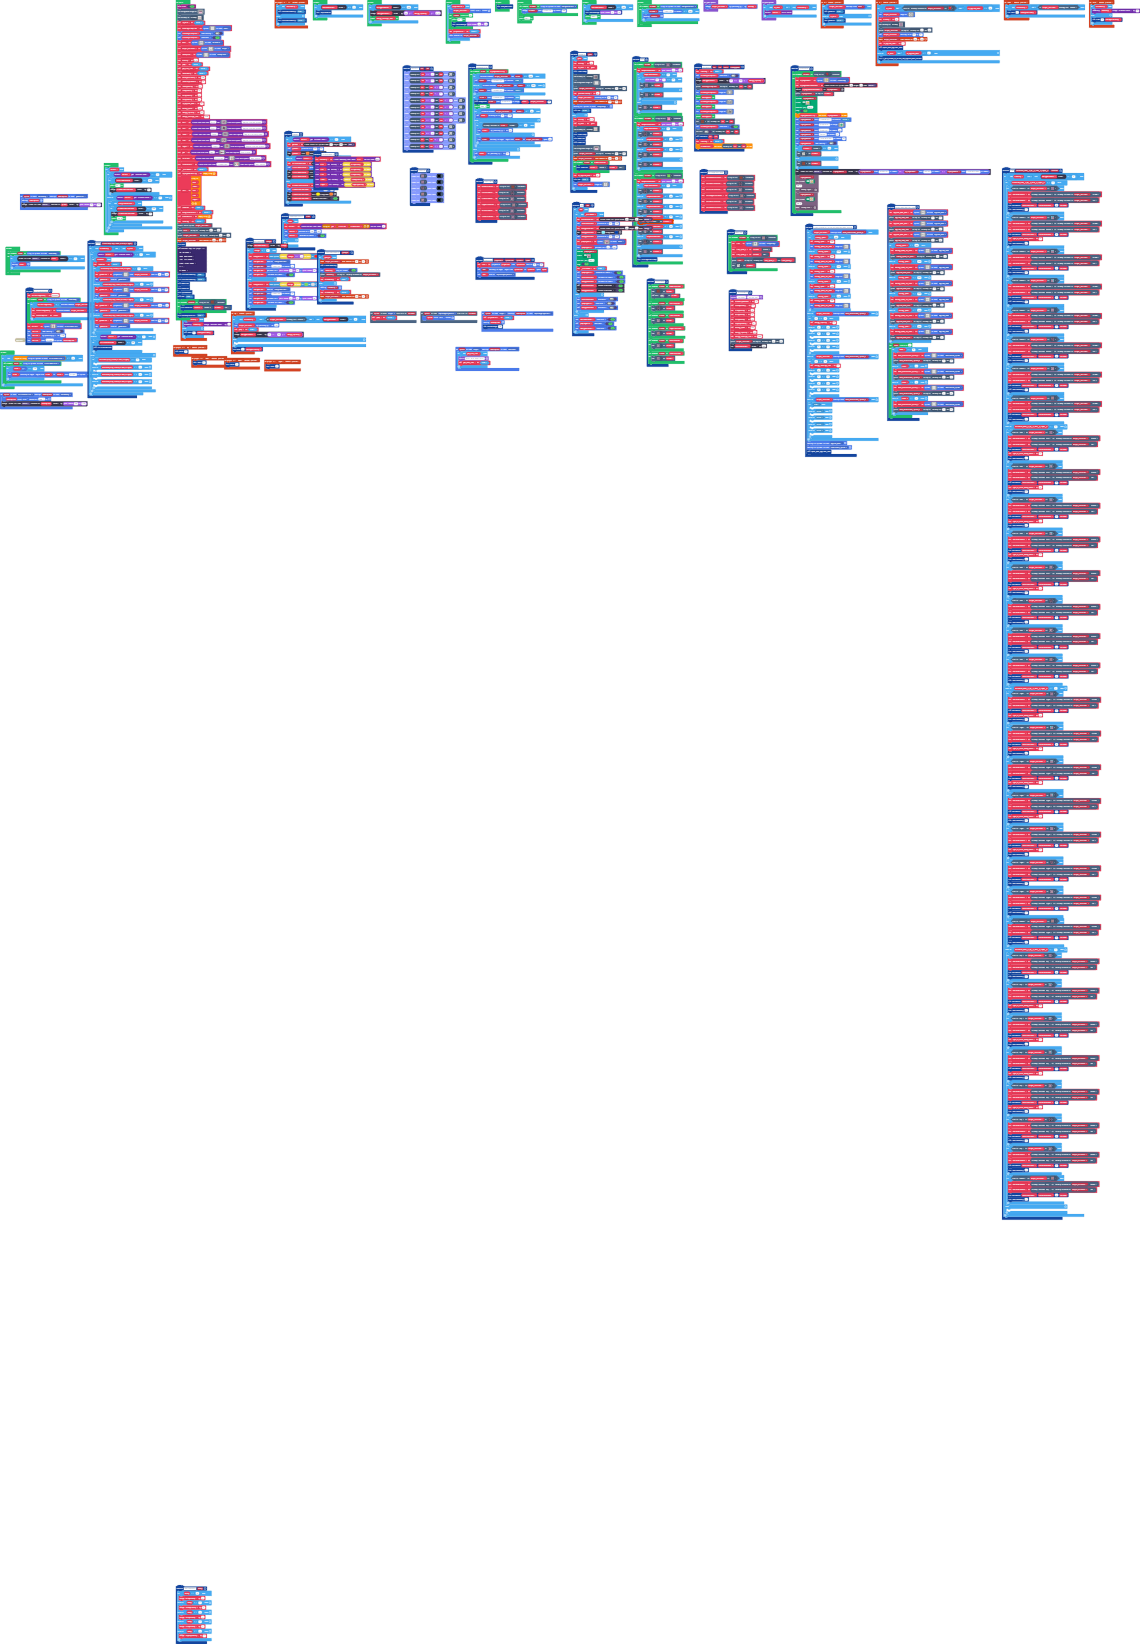
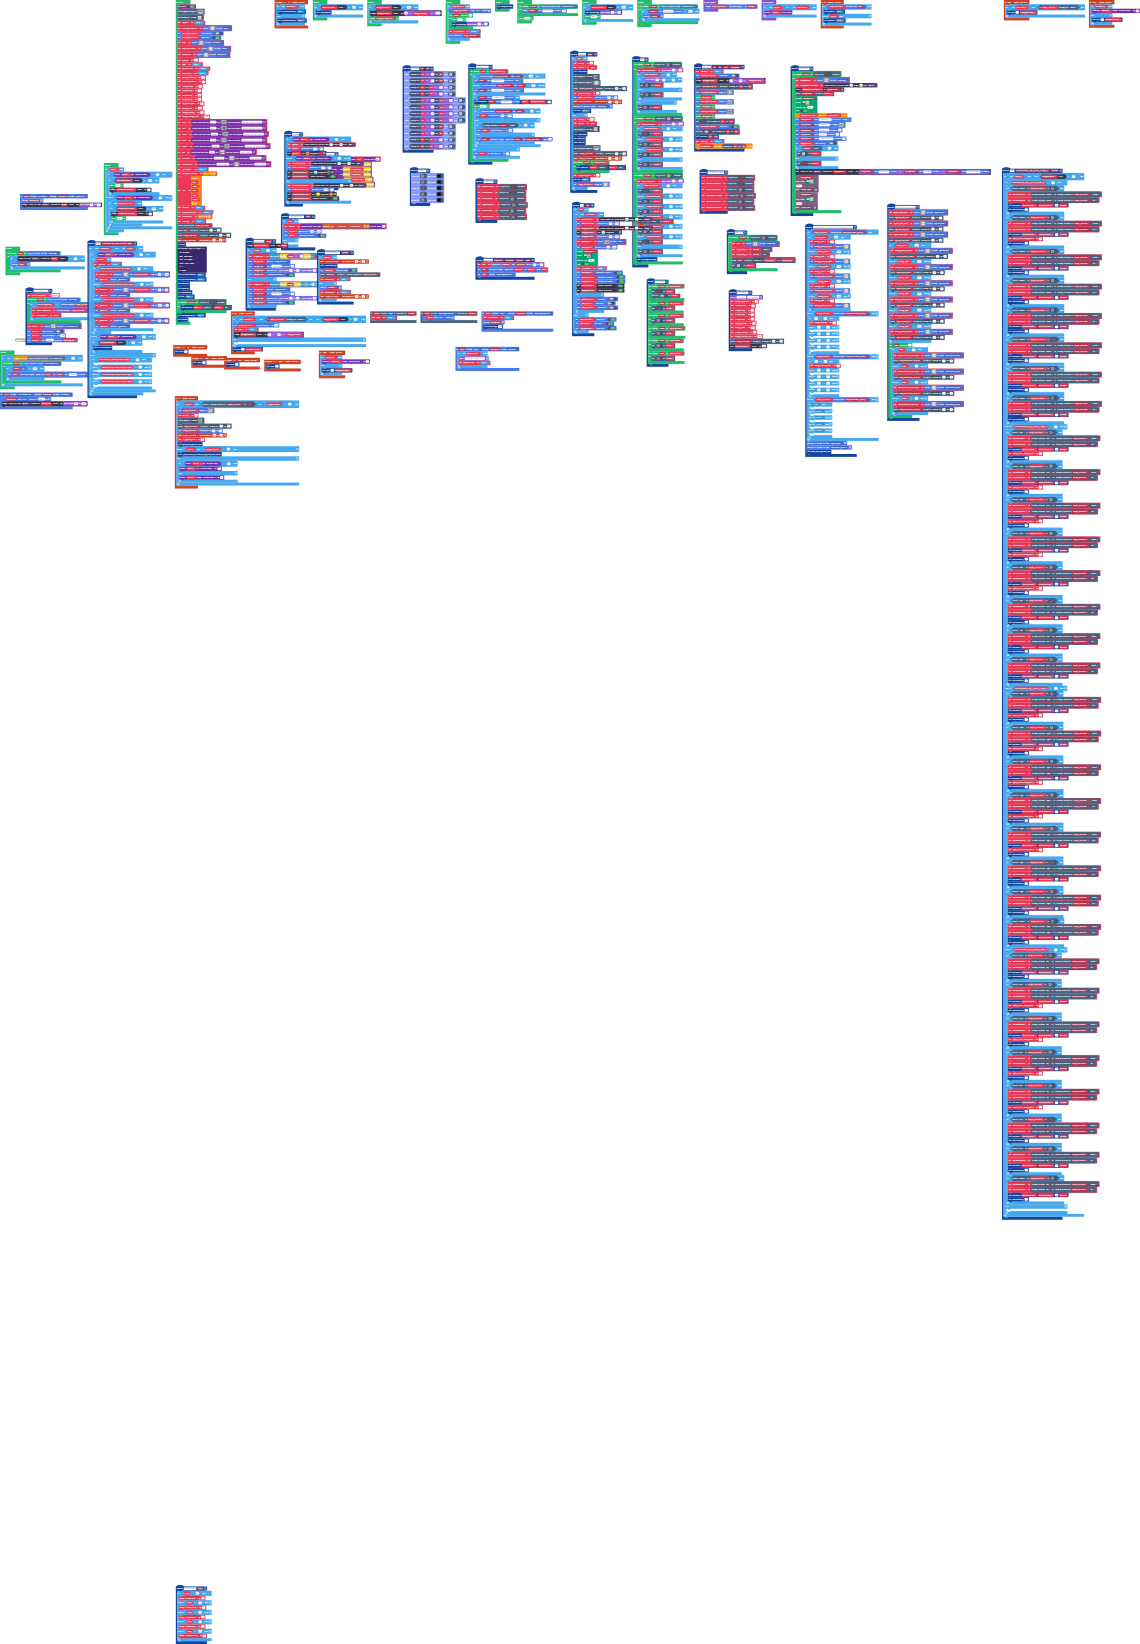
Update main.blocks, main.ts, tilemap.g.jres, tilemap.g.ts

diff --git a/tilemap.g.ts b/tilemap.g.ts
@@ -290,6 +290,82 @@ namespace myTiles {
 2222222222222222222222222222222222222222222222222222222222222222222222222222222222222222222222222222
 2222222222222222222222222222222222222222222222222222222222222222222222222222222222222222222222222222
 `, [myTiles.transparency16,myTiles.tile1,myTiles.tile2,myTiles.tile3,myTiles.tile5,myTiles.tile7,myTiles.tile8,myTiles.tile9,myTiles.tile31,myTiles.tile32,myTiles.tile12,myTiles.tile15,myTiles.tile16,myTiles.tile17,myTiles.tile33,myTiles.tile10], TileScale.Sixteen);
+            case "level10":
+            case "level10":return tiles.createTilemap(hex`1000100000000000000000000000000000000000000000000000000000000000000000000000000000000000000000000000000000000000000000000000000000000000000000000000000000000000000000000000000000000000000000000000000000000000000000000000000000000000000000000000000000000000000000000000000000000000000000000000000000000000000000000000000000000000000000000000000000000000000000000000000000000000000000000000000000000000000000000000000000000000000000000000000000000000000000000000000000000000000000000000000000000000000000000000000000000000`, img`
+. . . . . . . . . . . . . . . . 
+. . . . . . . . . . . . . . . . 
+. . . . . . . . . . . . . . . . 
+. . . . . . . . . . . . . . . . 
+. . . . . . . . . . . . . . . . 
+. . . . . . . . . . . . . . . . 
+. . . . . . . . . . . . . . . . 
+. . . . . . . . . . . . . . . . 
+. . . . . . . . . . . . . . . . 
+. . . . . . . . . . . . . . . . 
+. . . . . . . . . . . . . . . . 
+. . . . . . . . . . . . . . . . 
+. . . . . . . . . . . . . . . . 
+. . . . . . . . . . . . . . . . 
+. . . . . . . . . . . . . . . . 
+. . . . . . . . . . . . . . . . 
+`, [myTiles.transparency16], TileScale.Sixteen);
+            case "level11":
+            case "level11":return tiles.createTilemap(hex`1000100000000000000000000000000000000000000000000000000000000000000000000000000000000000000000000000000000000000000000000000000000000000000000000000000000000000000000000000000000000000000000000000000000000000000000000000000000000000000000000000000000000000000000000000000000000000000000000000000000000000000000000000000000000000000000000000000000000000000000000000000000000000000000000000000000000000000000000000000000000000000000000000000000000000000000000000000000000000000000000000000000000000000000000000000000000000`, img`
+. . . . . . . . . . . . . . . . 
+. . . . . . . . . . . . . . . . 
+. . . . . . . . . . . . . . . . 
+. . . . . . . . . . . . . . . . 
+. . . . . . . . . . . . . . . . 
+. . . . . . . . . . . . . . . . 
+. . . . . . . . . . . . . . . . 
+. . . . . . . . . . . . . . . . 
+. . . . . . . . . . . . . . . . 
+. . . . . . . . . . . . . . . . 
+. . . . . . . . . . . . . . . . 
+. . . . . . . . . . . . . . . . 
+. . . . . . . . . . . . . . . . 
+. . . . . . . . . . . . . . . . 
+. . . . . . . . . . . . . . . . 
+. . . . . . . . . . . . . . . . 
+`, [myTiles.transparency16], TileScale.Sixteen);
+            case "level12":
+            case "level12":return tiles.createTilemap(hex`1000100000000000000000000000000000000000000000000000000000000000000000000000000000000000000000000000000000000000000000000000000000000000000000000000000000000000000000000000000000000000000000000000000000000000000000000000000000000000000000000000000000000000000000000000000000000000000000000000000000000000000000000000000000000000000000000000000000000000000000000000000000000000000000000000000000000000000000000000000000000000000000000000000000000000000000000000000000000000000000000000000000000000000000000000000000000000`, img`
+. . . . . . . . . . . . . . . . 
+. . . . . . . . . . . . . . . . 
+. . . . . . . . . . . . . . . . 
+. . . . . . . . . . . . . . . . 
+. . . . . . . . . . . . . . . . 
+. . . . . . . . . . . . . . . . 
+. . . . . . . . . . . . . . . . 
+. . . . . . . . . . . . . . . . 
+. . . . . . . . . . . . . . . . 
+. . . . . . . . . . . . . . . . 
+. . . . . . . . . . . . . . . . 
+. . . . . . . . . . . . . . . . 
+. . . . . . . . . . . . . . . . 
+. . . . . . . . . . . . . . . . 
+. . . . . . . . . . . . . . . . 
+. . . . . . . . . . . . . . . . 
+`, [myTiles.transparency16], TileScale.Sixteen);
+            case "level13":
+            case "level13":return tiles.createTilemap(hex`1000100000000000000000000000000000000000000000000000000000000000000000000000000000000000000000000000000000000000000000000000000000000000000000000000000000000000000000000000000000000000000000000000000000000000000000000000000000000000000000000000000000000000000000000000000000000000000000000000000000000000000000000000000000000000000000000000000000000000000000000000000000000000000000000000000000000000000000000000000000000000000000000000000000000000000000000000000000000000000000000000000000000000000000000000000000000000`, img`
+. . . . . . . . . . . . . . . . 
+. . . . . . . . . . . . . . . . 
+. . . . . . . . . . . . . . . . 
+. . . . . . . . . . . . . . . . 
+. . . . . . . . . . . . . . . . 
+. . . . . . . . . . . . . . . . 
+. . . . . . . . . . . . . . . . 
+. . . . . . . . . . . . . . . . 
+. . . . . . . . . . . . . . . . 
+. . . . . . . . . . . . . . . . 
+. . . . . . . . . . . . . . . . 
+. . . . . . . . . . . . . . . . 
+. . . . . . . . . . . . . . . . 
+. . . . . . . . . . . . . . . . 
+. . . . . . . . . . . . . . . . 
+. . . . . . . . . . . . . . . . 
+`, [myTiles.transparency16], TileScale.Sixteen);
         }
         return null;
     })

diff --git a/main.ts b/main.ts
@@ -564,6 +564,12 @@ controller.A.onEvent(ControllerButtonEvent.Pressed, function () {
         Spawn_menu_upgrades_text()
     } else if (In_Base && In_upgrade_menu == 1) {
         I_just_wanted_to_shrink_the_upgrade_menu_section()
+    } else {
+        if (toolbar.get_number(ToolbarNumberAttribute.SelectedIndex) == 3) {
+            toolbar.set_number(ToolbarNumberAttribute.SelectedIndex, 1)
+        } else {
+            toolbar.change_number(ToolbarNumberAttribute.SelectedIndex, 1)
+        }
     }
 })
 controller.player2.onButtonEvent(ControllerButton.A, ControllerButtonEvent.Pressed, function () {
@@ -2192,6 +2198,7 @@ for (let value14 of tiles.getTilesByType(assets.tile`myTile8`)) {
     showTiles(value14.column, value14.row)
 }
 makeWeaponToolbar(true)
+HUDAmmo()
 game.onUpdate(function () {
     Player_character.vy += Gravity
 })
